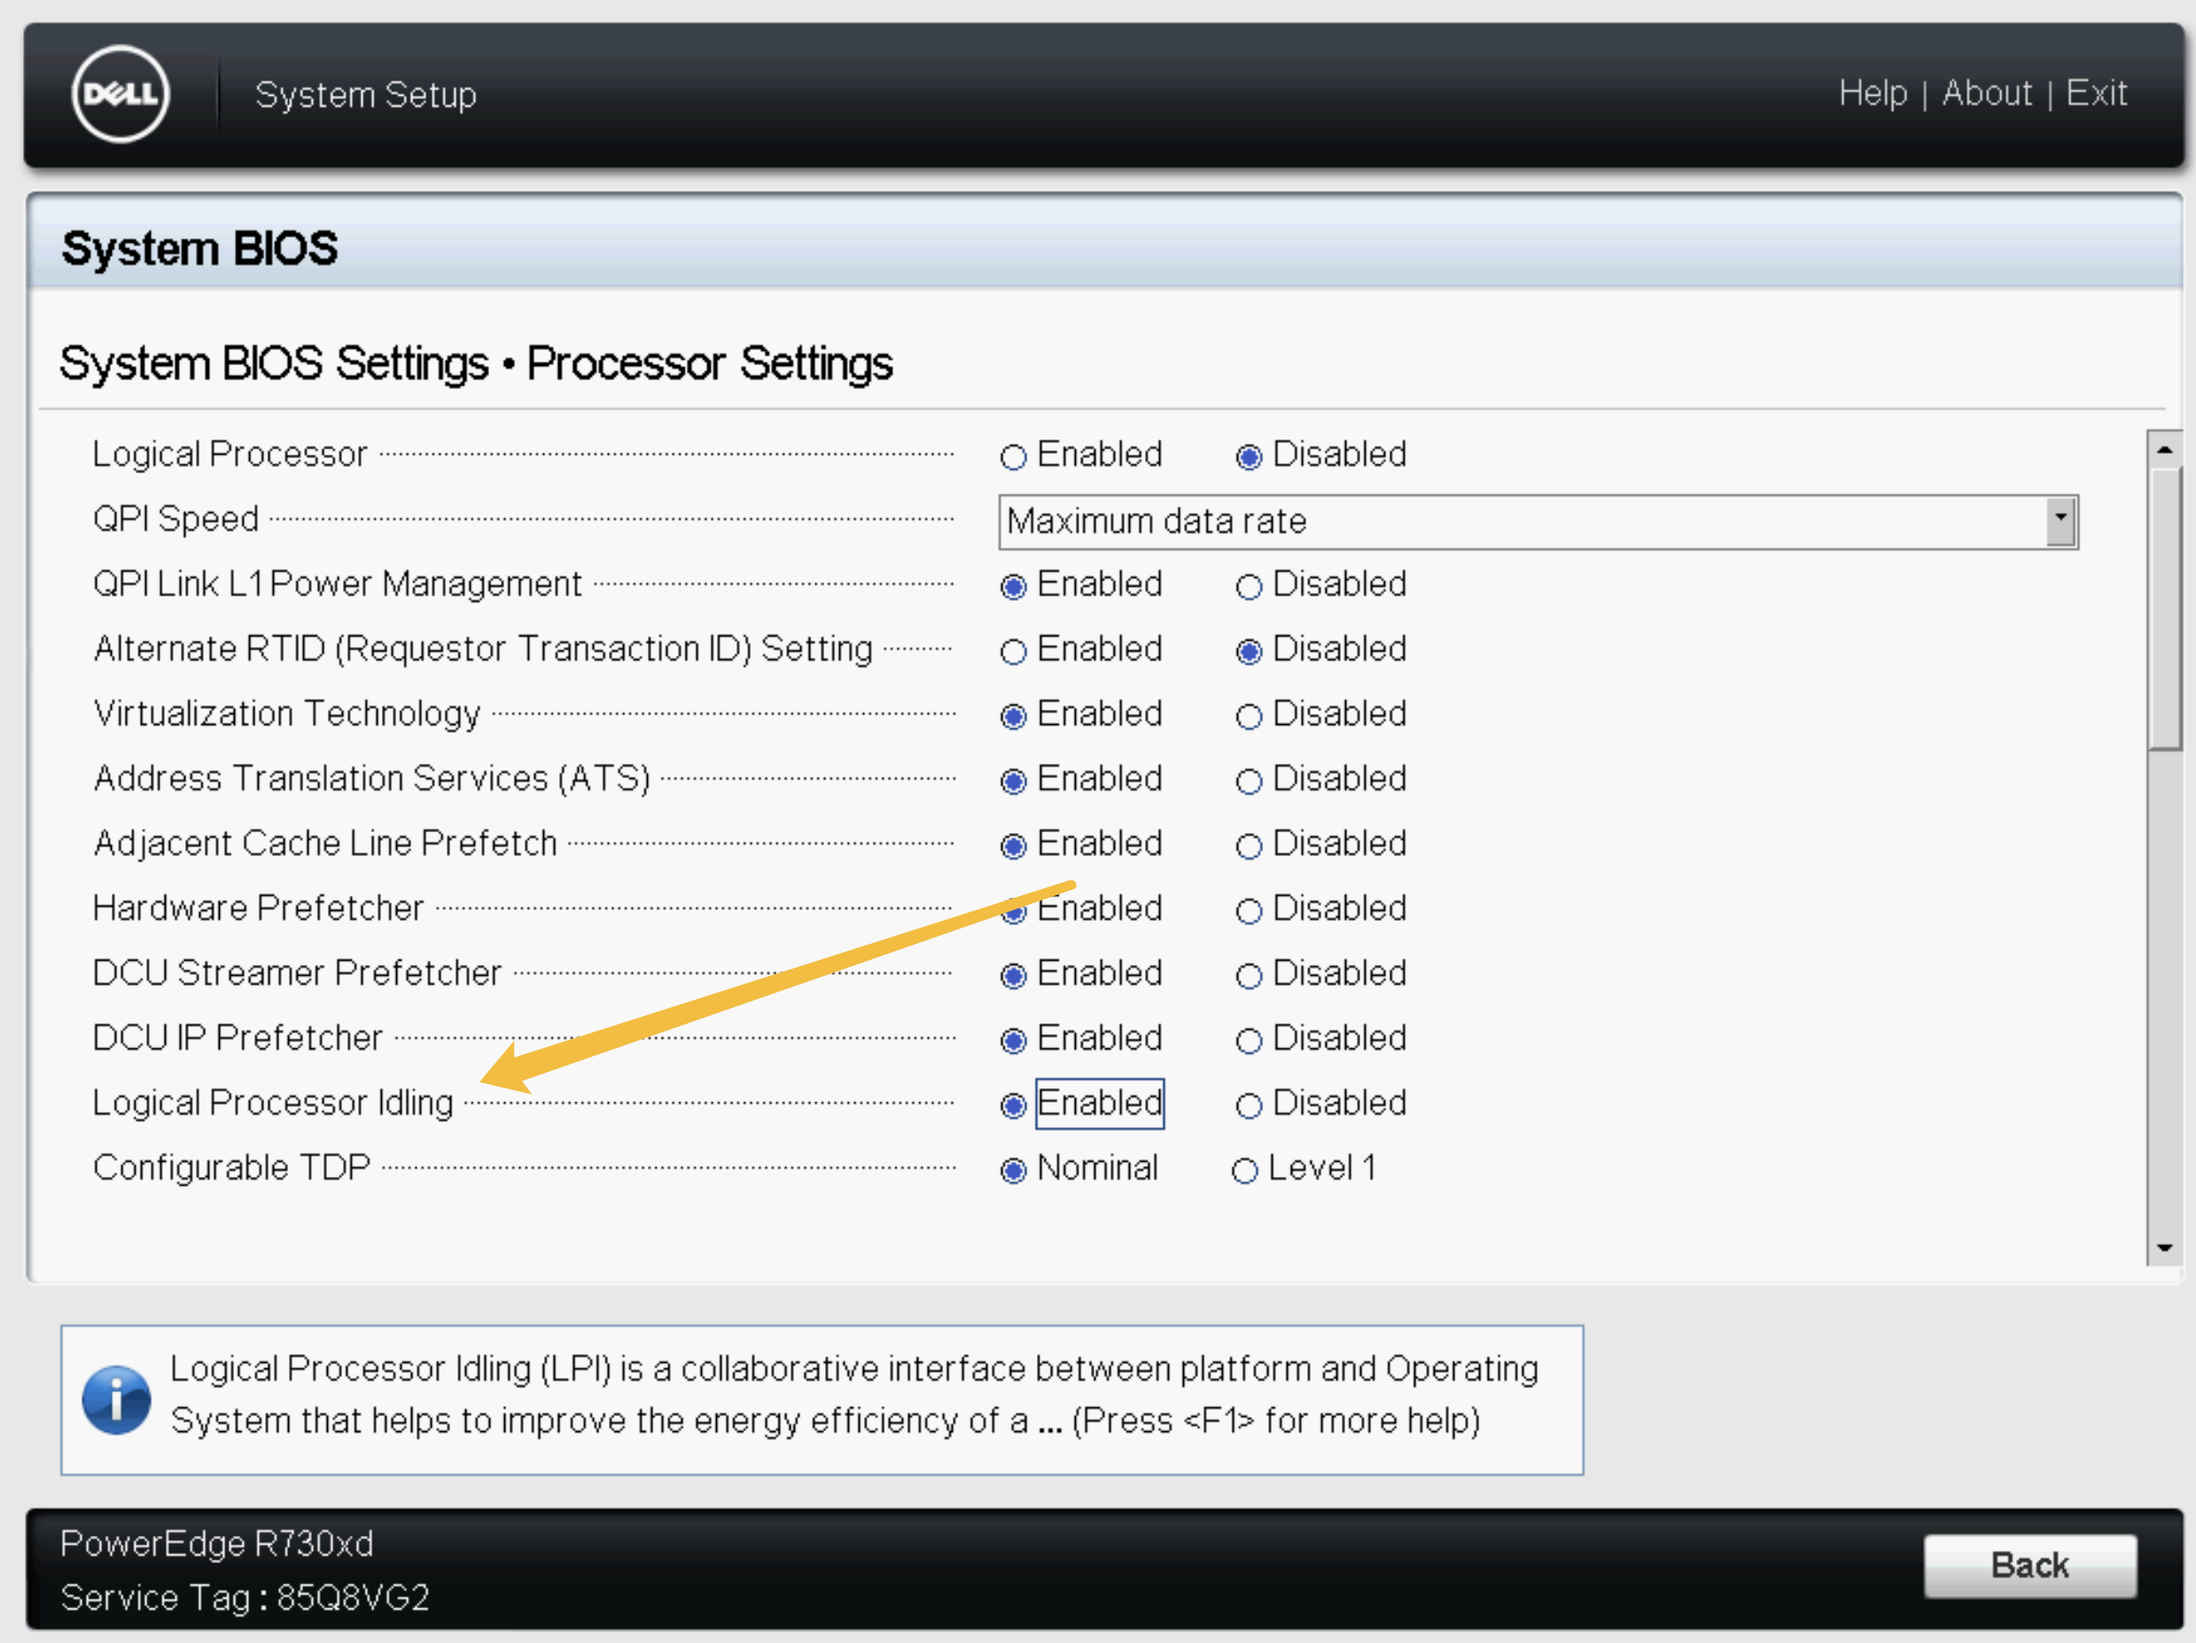
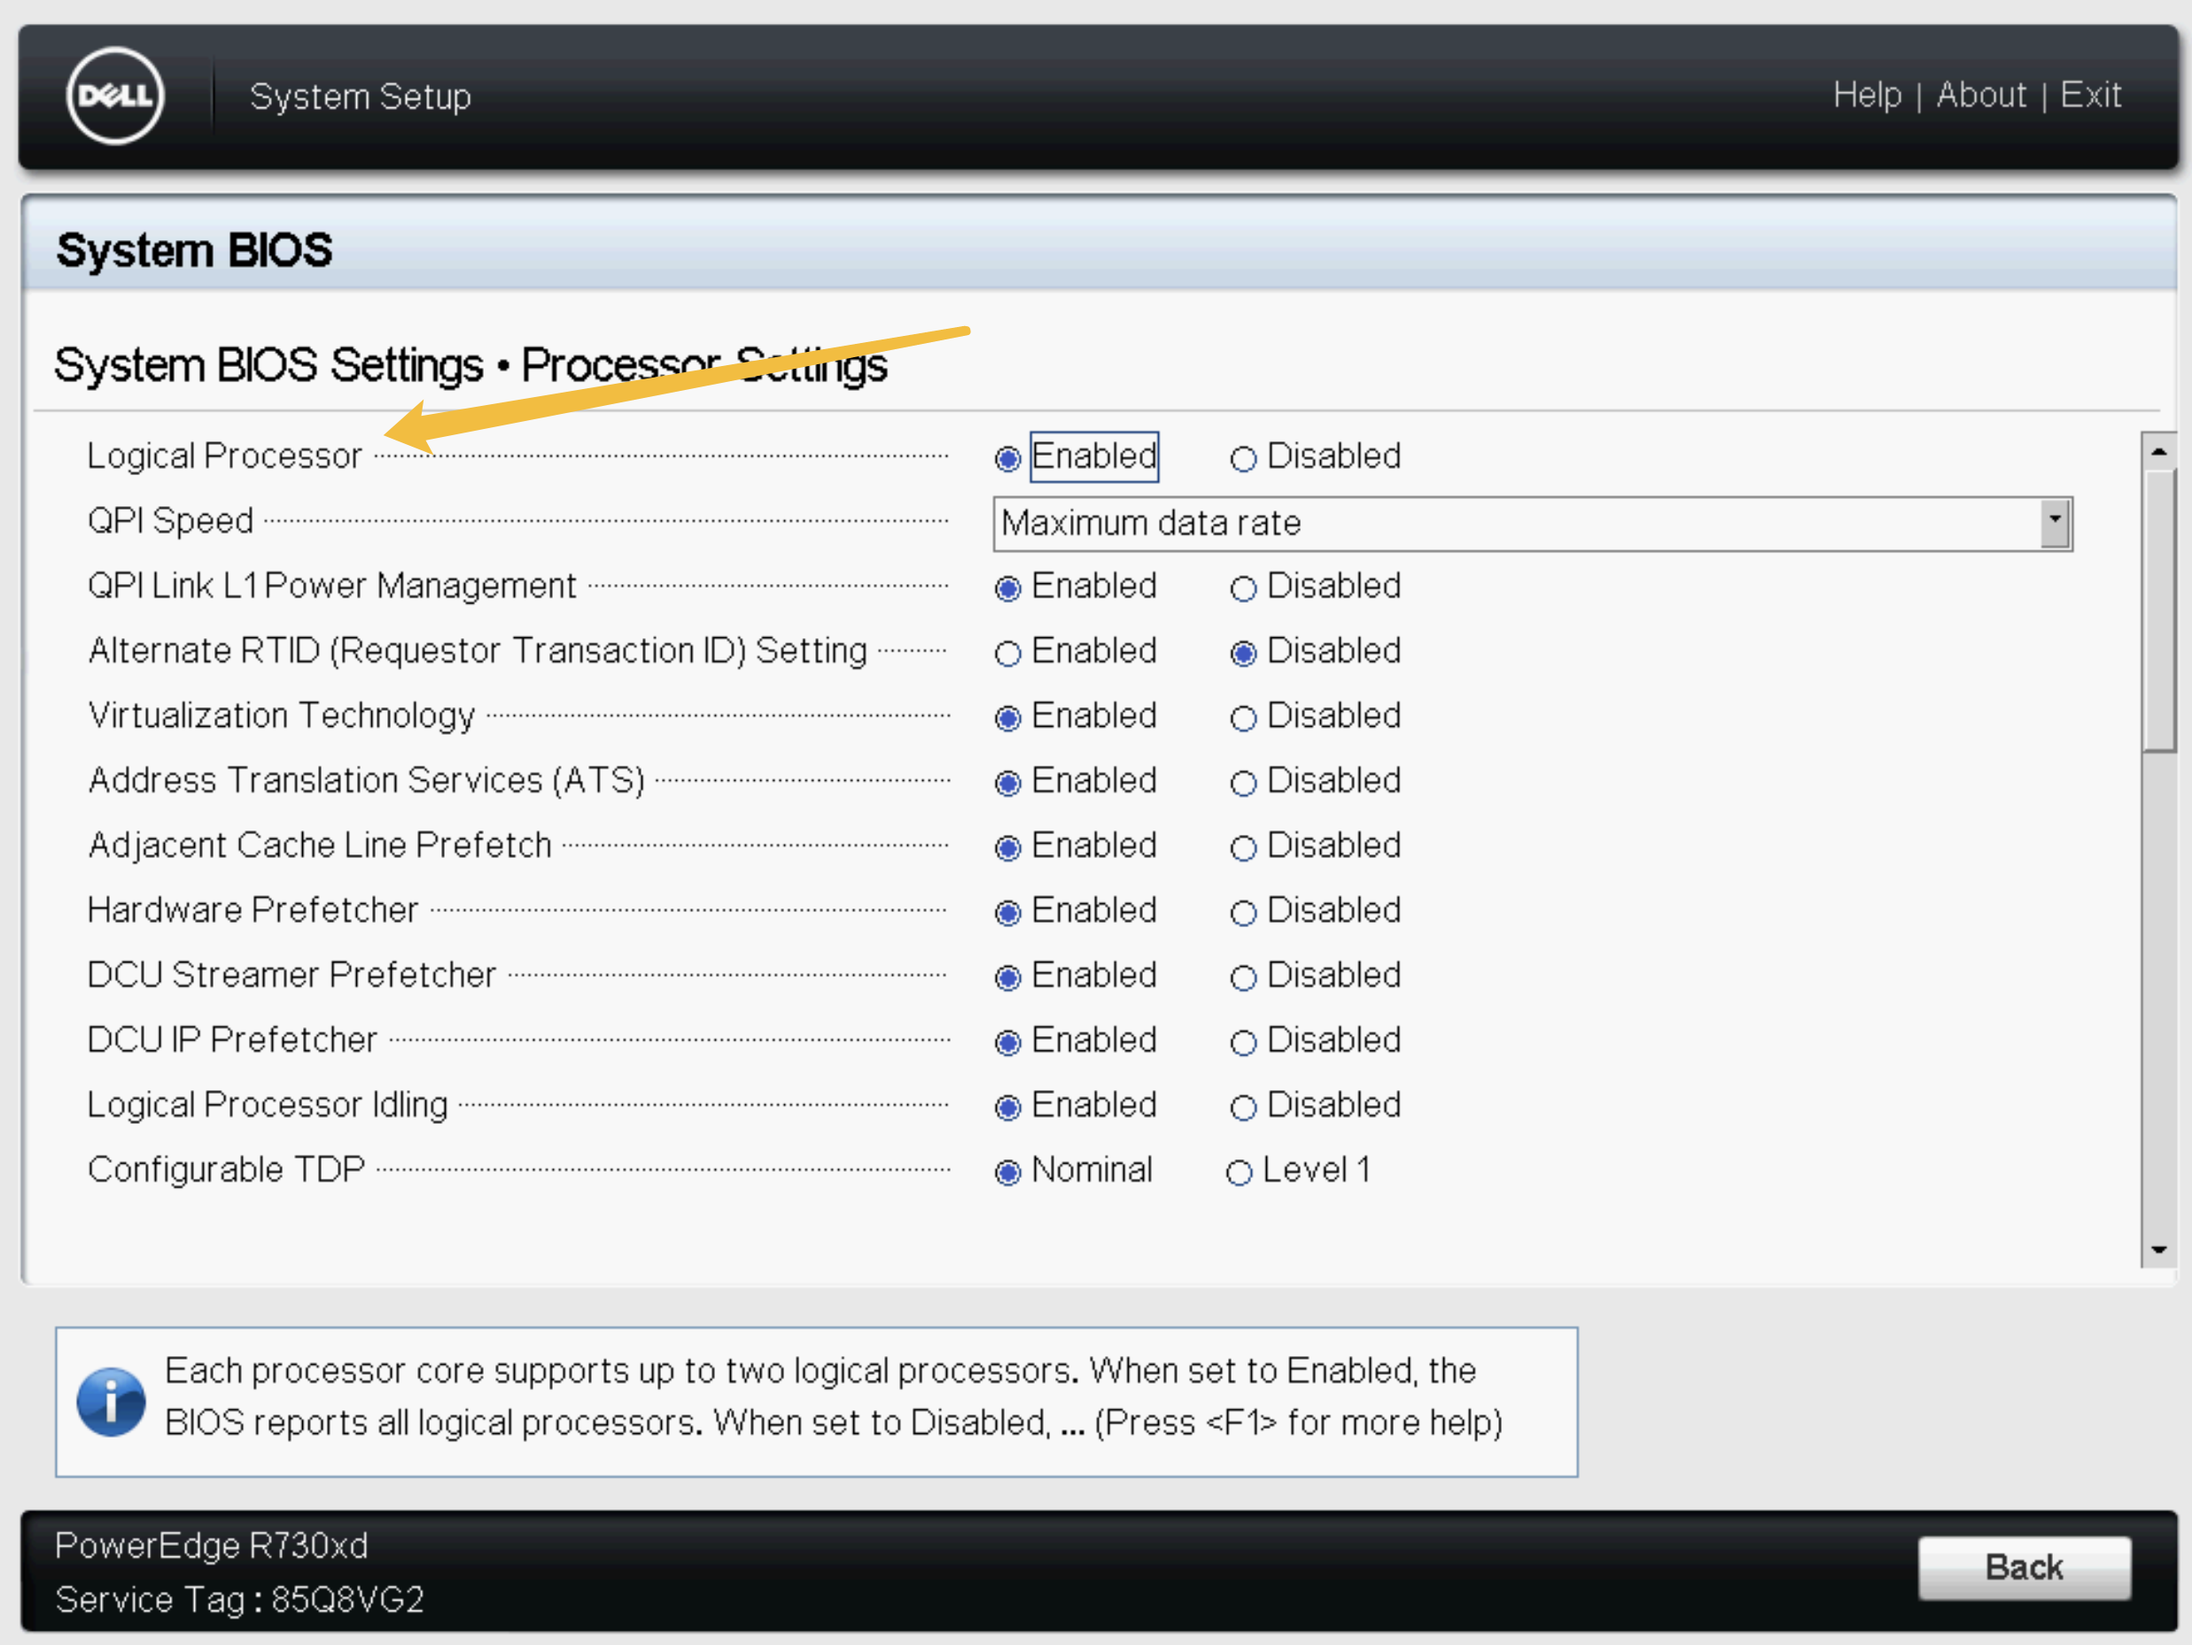
new

diff --git a/source/_posts/oam/2025-05-27 14:24:56.md b/source/_posts/oam/2025-05-27 14:24:56.md
@@ -37,12 +37,28 @@ lscpu | grep "Thread(s) per core"
 
 - 进入 System BIOS 选项
 - 选择 Precessor Settings 选项(处理器设置)
-- 将 Logical Processor lding 设置为 Enable(启用即可)
+- 将 Logical Processor 设置为 Enable(启用即可)
 
-> `Logical Processor` 的名字其实不一定,有时也叫 `Hyper-Threading` 或 `Logical Processor Enable` 要注意下
+> `Logical Processor` 的名字其实不一定,有时也叫 `Hyper-Threading` 或 `Logical Processor Enable` 看是什么机型
 
 ![001](./001.png)
 
 ![002](./002.png)
 
 ![003](./003.png)
+
+## 验证结果
+
+保存 BIOS 配置并且退出,然后重启进入系统,再次尝试查看
+
+输出结果中的`Thread(s) per core`为 2 表示就启用了超线程
+
+```bash
+lscpu | grep "Thread(s) per core"
+```
+
+或者
+
+```bash
+lscpu
+```
